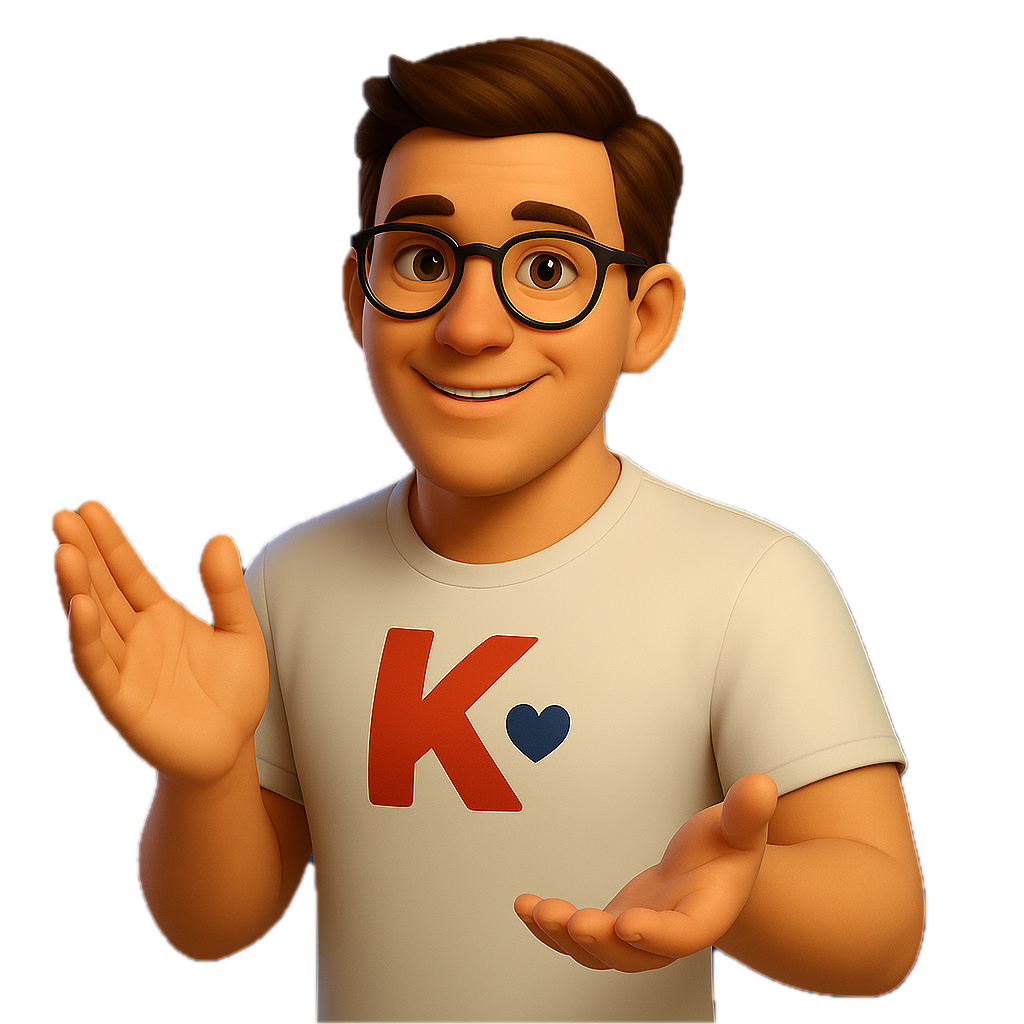
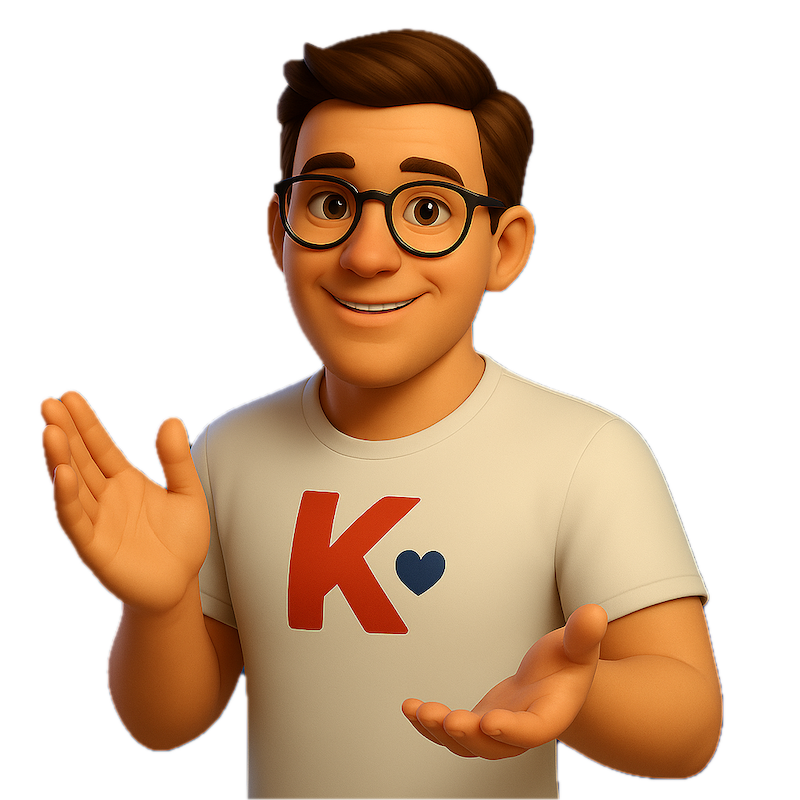
reduced image size & added 404page

diff --git a/index.js b/index.js
@@ -493,6 +493,7 @@ app.get("/terms",        (req, res) => res.render("terms",        { title: "Term
 // 14.1) Login and Register pages (GET)
 app.get("/login",    (req, res) => res.render("login",    { title: "Log In",     facebookAppId: process.env.FACEBOOK_APP_ID }));
 app.get("/register", (req, res) => res.render("register", { title: "Sign Up" }));
+app.get("/404", (req, res) => res.render("404", { title: "404 ERROR" }));
 
 app.get("/about", (req, res) => {
   // mirror the same flags you use on your home route
